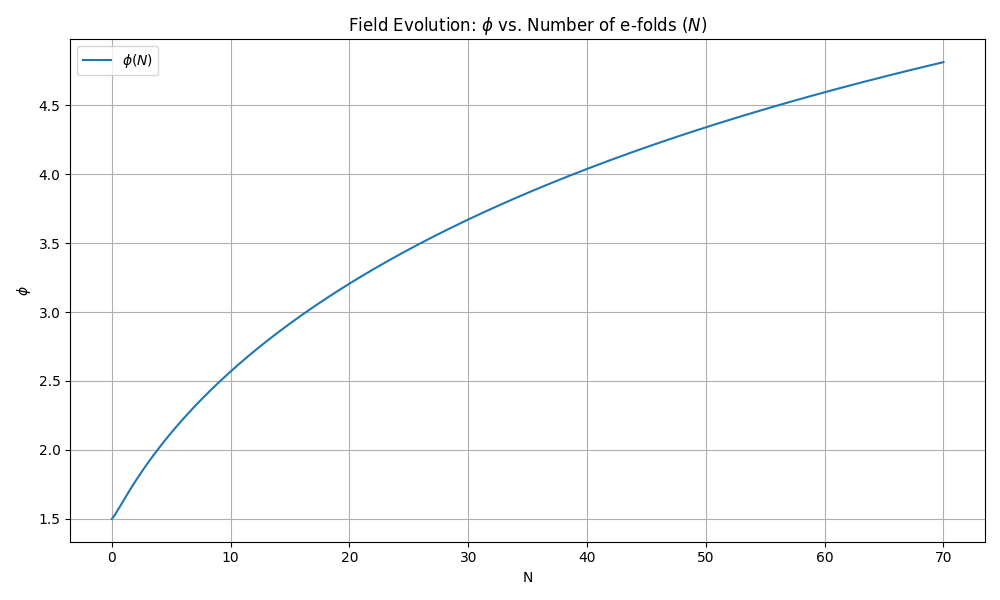
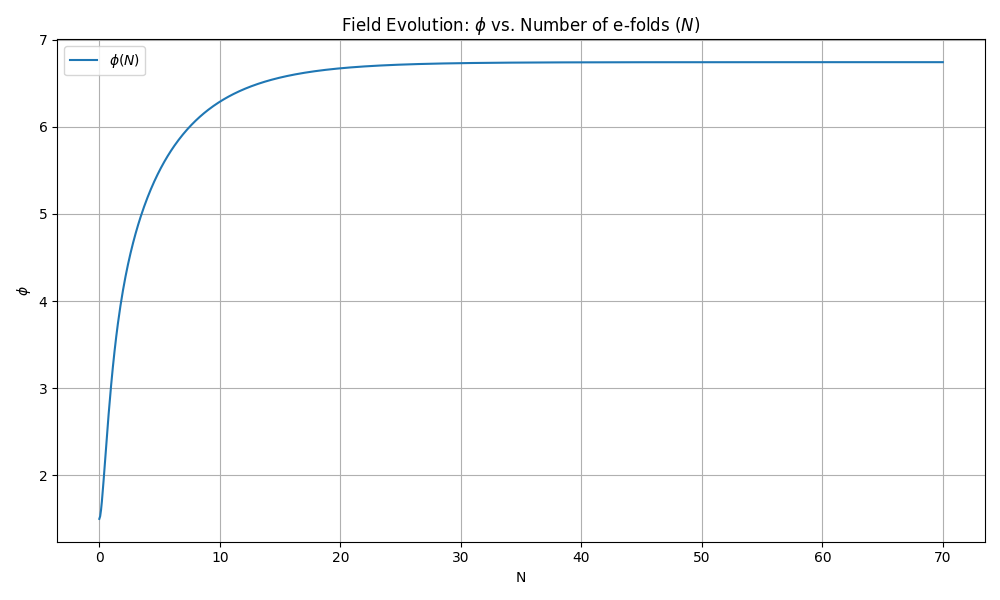
changed some parameters in field vs N graph

diff --git a/Python/Full field as func of N.py b/Python/Full field as func of N.py
@@ -24,7 +24,7 @@ g = 20             # model parameter gamma
 a = -50            # model parameter alpha
 b = 1             # model parameter beta
 D = np.sqrt(g**2 - 4*a*b)  
-k = 1000             # model parameter k
+k = 50             # model parameter k
 sf = 1000000      # overall scale factor in potential
 c = -2            # integration constant 
 
